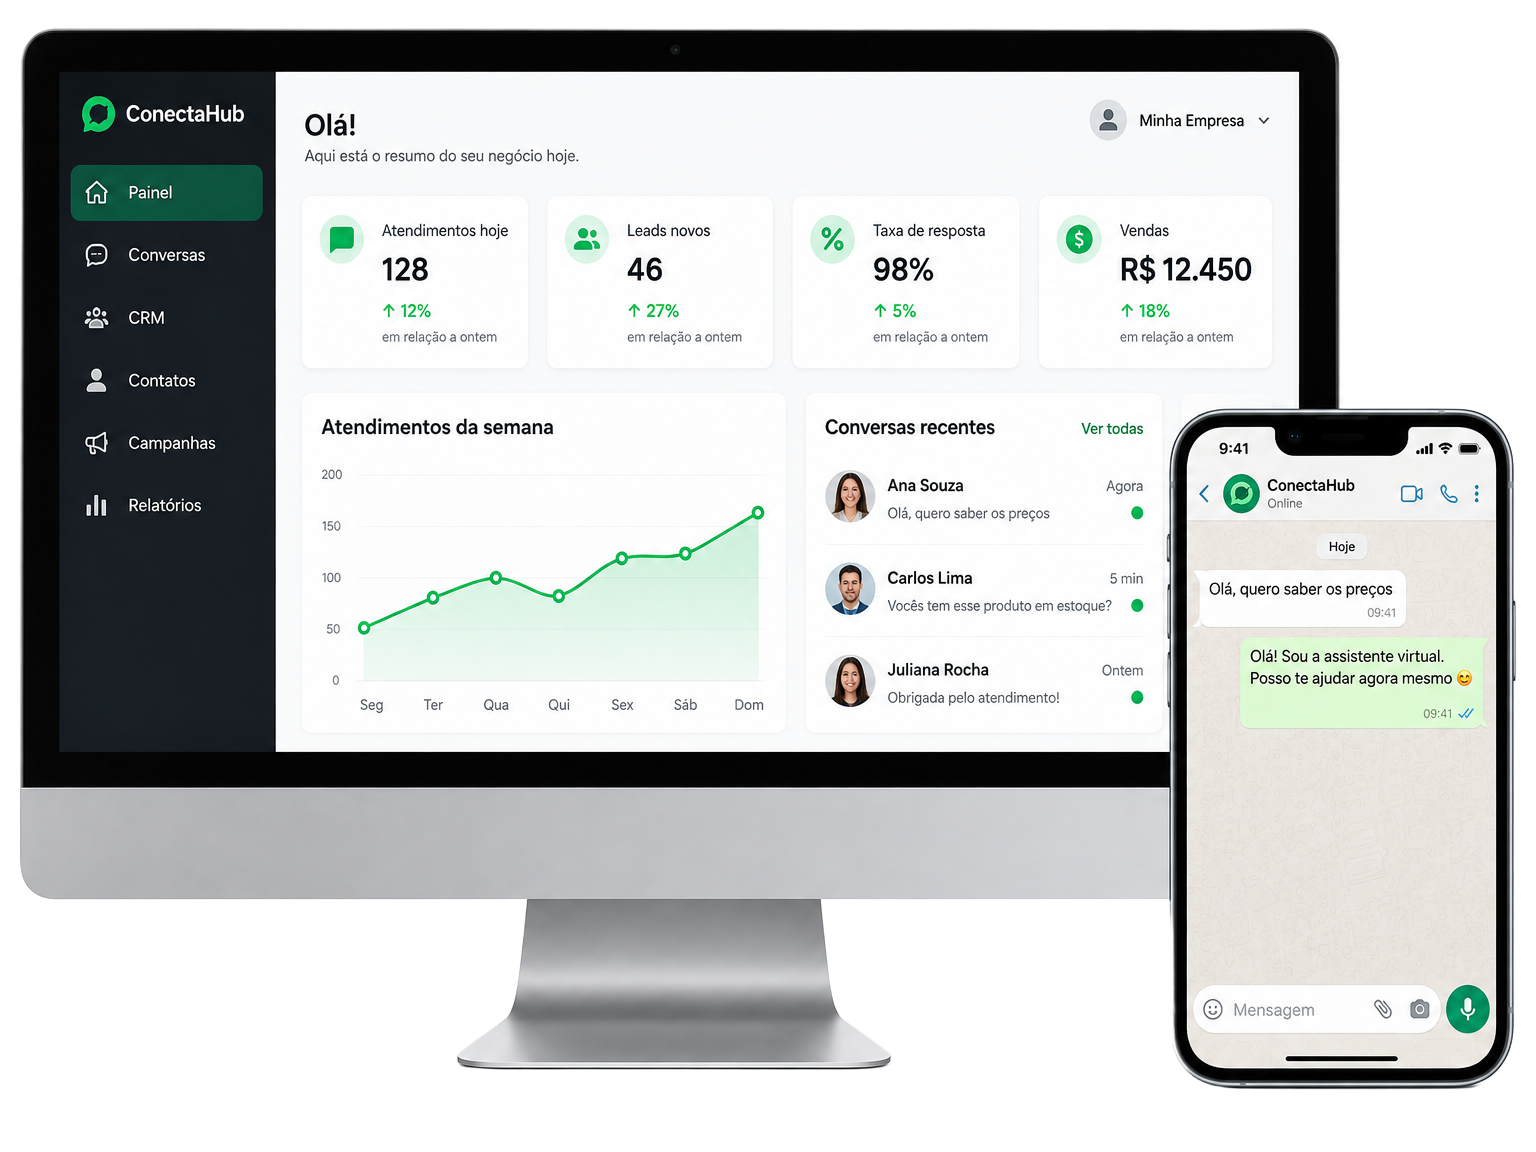
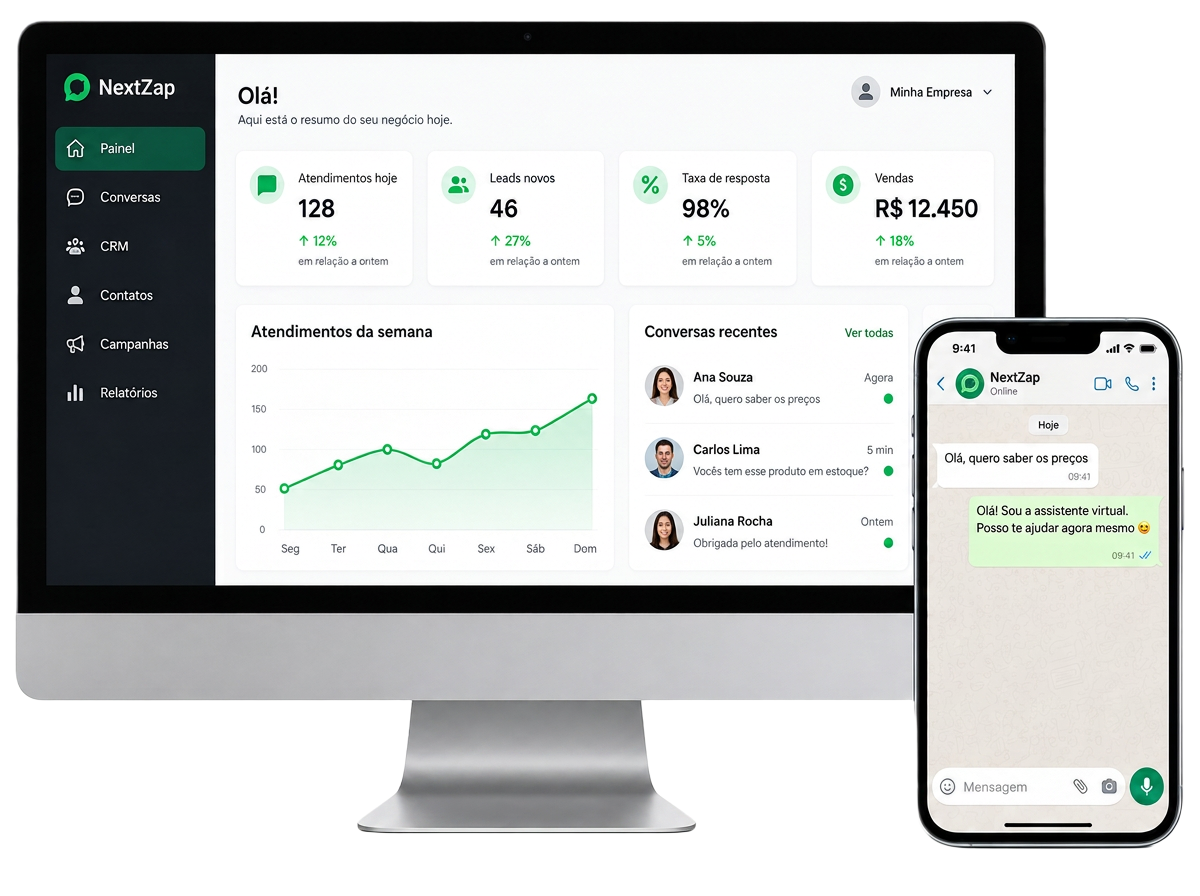
Changes

diff --git a/src/routes/index.tsx b/src/routes/index.tsx
@@ -1,6 +1,6 @@
 import { createFileRoute, redirect } from "@tanstack/react-router";
 import { brand } from "@/config/brand";
-import heroMockup from "@/assets/hero-devices-pt.png";
+import heroMockup from "@/assets/hero-desktop-pt.png";
 import { supabase } from "@/integrations/supabase/client";
 import { useEffect, useState } from "react";
 import {
